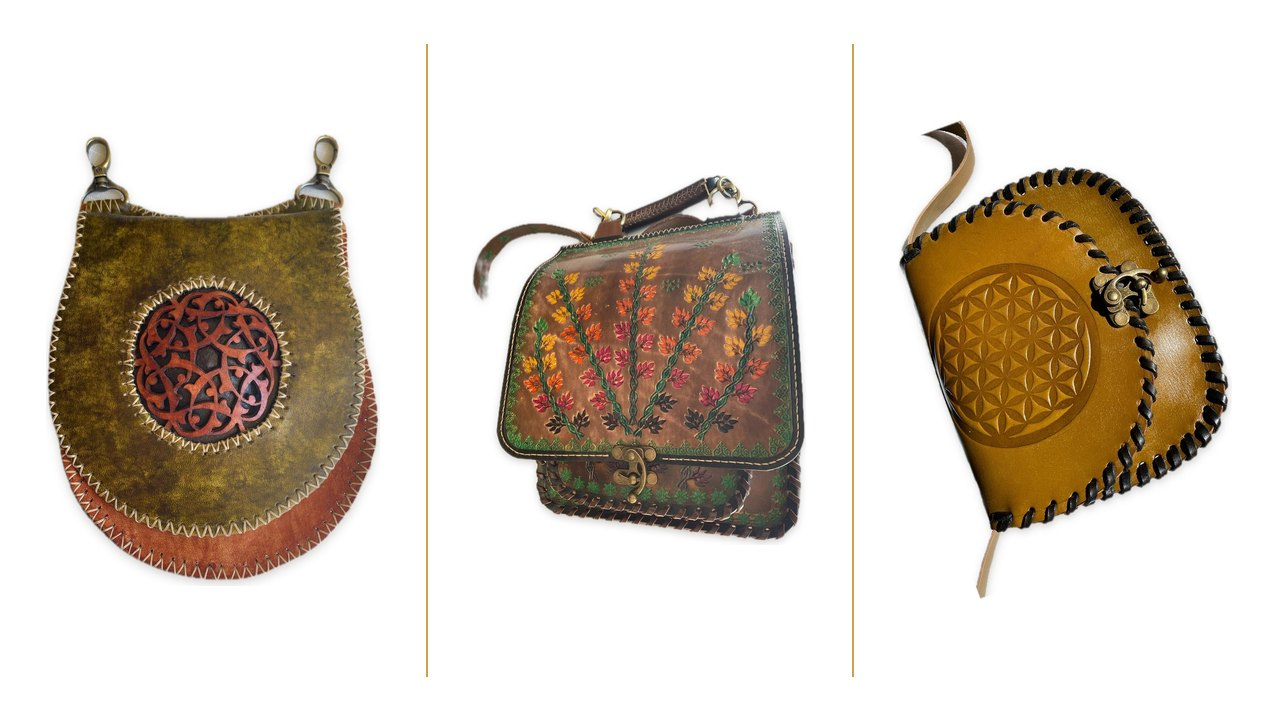
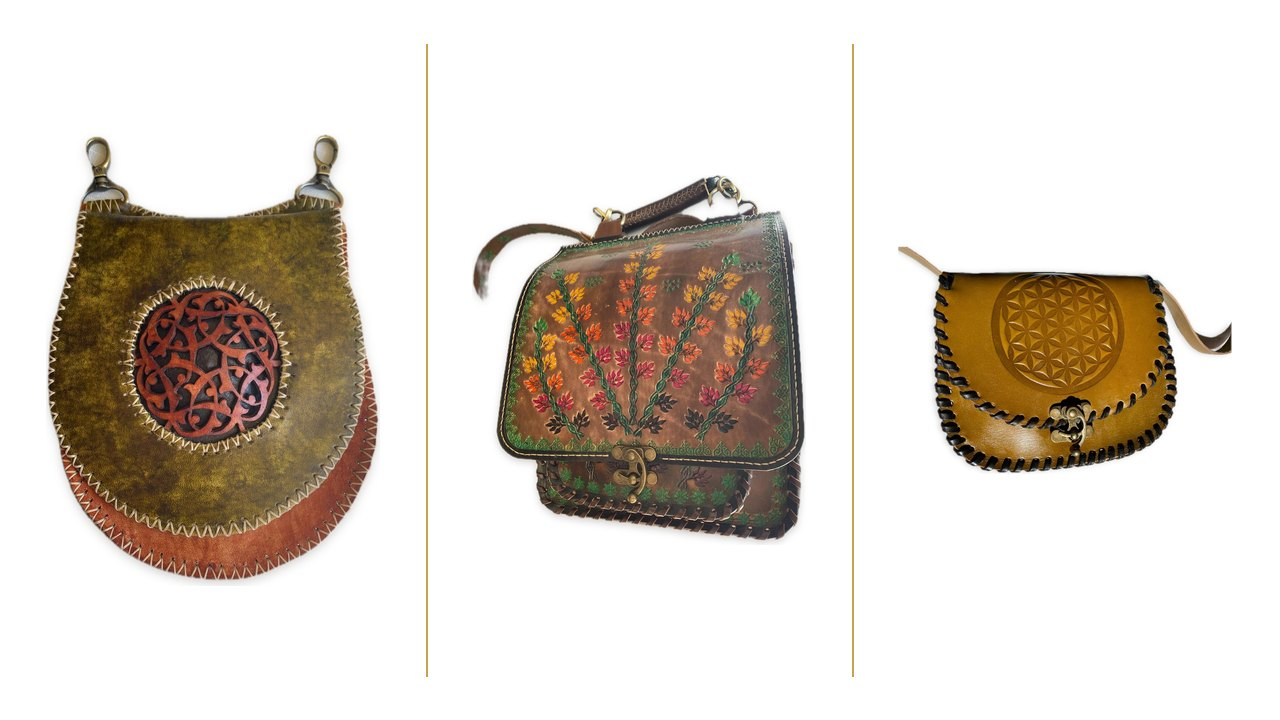
leather: upright indigo & amber crossbody mains; lift hero content
- indigo crossbody now leads with the clean head-on shot (was the
  angled, strap-sprawled frame)
- amber flower-of-life crossbody re-derived upright from source (clasp
  at top, motif on the flap) — replaces the sideways frame
- rebuild homepage feature triptych with the upright amber
- hero content vertically centered (raised) per feedback

Changed region(s): [[0.6875, 0.1528, 0.9688, 0.825]]

diff --git a/leather/index.html b/leather/index.html
@@ -65,7 +65,7 @@
   .lang-btn.active{background:linear-gradient(135deg,var(--gold2),var(--gold));color:#231803;box-shadow:0 0 14px -4px rgba(201,162,75,.7)}
 
   /* hero */
-  .hero{position:relative;min-height:88svh;display:flex;flex-direction:column;justify-content:flex-end;padding:132px 0 54px;overflow:hidden}
+  .hero{position:relative;min-height:82svh;display:flex;flex-direction:column;justify-content:center;padding:150px 0 40px;overflow:hidden}
   .hero::before{content:"";position:absolute;inset:0;z-index:-2;background:
     radial-gradient(60% 55% at 78% 12%,rgba(46,155,240,.22),transparent 60%),
     radial-gradient(70% 60% at 8% 88%,rgba(201,162,75,.13),transparent 62%),
@@ -300,10 +300,10 @@
   <article class="card reveal">
     <div class="media">
       <span class="badge" data-en="One of one" data-tr="Tek parça" data-de="Unikat">One of one</span>
-      <img class="main" id="m-indigo" src="indigo-1.jpg" alt="Tree-of-Life Crossbody — Indigo" loading="lazy" decoding="async" />
+      <img class="main" id="m-indigo" src="indigo-2.jpg" alt="Tree-of-Life Crossbody — Indigo" loading="lazy" decoding="async" />
       <div class="thumbs" role="group" aria-label="Tree-of-Life Crossbody — Indigo views">
-        <button type="button" class="thumb active" data-target="m-indigo" data-full="indigo-1.jpg" aria-label="View 1"><img src="indigo-1-t.jpg" alt="" loading="lazy" /></button>
-        <button type="button" class="thumb" data-target="m-indigo" data-full="indigo-2.jpg" aria-label="View 2"><img src="indigo-2-t.jpg" alt="" loading="lazy" /></button>
+        <button type="button" class="thumb active" data-target="m-indigo" data-full="indigo-2.jpg" aria-label="View 1"><img src="indigo-2-t.jpg" alt="" loading="lazy" /></button>
+        <button type="button" class="thumb" data-target="m-indigo" data-full="indigo-1.jpg" aria-label="View 2"><img src="indigo-1-t.jpg" alt="" loading="lazy" /></button>
       </div>
     </div>
     <div class="body">
